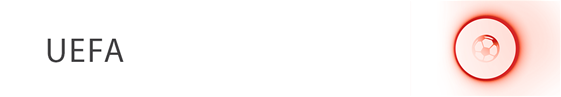
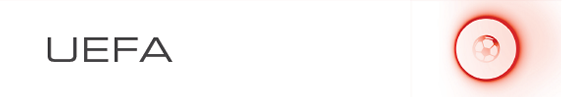
updates

diff --git a/css/app.css b/css/app.css
@@ -8,24 +8,29 @@ and open the template in the editor.
     Author     : Llewellyn
 */
 
-@import url(http://fonts.googleapis.com/css?family=Droid+Sans);
+@import url(http://fonts.googleapis.com/css?family=Michroma);
 
-body, input, select, textarea, button, .ui-btn {
-    font-family: 'Droid Sans', sans-serif;
+body, button, .ui-btn {
+    font-family: 'Michroma', Arial, Helvetica, sans-serif;
+    font-size: 12px;
 }
 
-.ui-body-a,
-.ui-body-a input,
-.ui-body-a select,
-.ui-body-a textarea,
-.ui-body-a button {
-    font-family: 'Droid Sans', sans-serif;
+input, select, textarea {
+    font-family: Arial, Helvetica, sans-serif;
 }
 
-.ui-btn-up-a,
-.ui-btn-hover-a,
-.ui-btn-down-a {
-    font-family: 'Droid Sans', sans-serif;
+.ui-body-a, .ui-body-a button {
+    font-family: 'Michroma', Arial, Helvetica, sans-serif;
+    font-size: 12px;
+}
+
+.ui-body-a input, .ui-body-a select, .ui-body-a textarea {
+    font-family: Arial, Helvetica, sans-serif;
+}
+
+.ui-btn-up-a, .ui-btn-hover-a, .ui-btn-down-a {
+    font-family: 'Michroma', Arial, Helvetica, sans-serif;
+    font-size: 12px;
 }
 
 #forgot, #login, #signup, #dashboard, #logout {
@@ -47,9 +52,14 @@ body, input, select, textarea, button, .ui-btn {
     padding: 0;
 }
 
-#header, #footer {
+#header {
     border: none;
     background-color: #fff;
+}
+
+#footer {
+    background-color: #fff;
+    border-top: 1px solid #d32627;
 }
 
 #content-body-main {
@@ -67,14 +77,33 @@ body, input, select, textarea, button, .ui-btn {
 
 #content-title > h2 {
     color: #d32627;
-    font-weight: normal;
-    font-size: 18px;
+    font-weight: bold;
+    font-size: 14px;
 }
 
 #content-head > h2 {
     color: #d32627;
+    font-weight: bold;
+    font-size: 12px;
+    text-align: left;
+    padding-left: 30px;
+}
+
+#rankingsOutput {
+    border-collapse: collapse;
+    font-size: 10px;
+}
+
+#logoutDiv {
+    text-align: right;
+    padding-right: 30px;
     font-weight: normal;
-    font-size: 18px;
+    font-size: 12px;
+    text-transform: none;
+}
+
+#logoutA {
+    text-align: center; text-decoration: none; color: #333; text-shadow: none; font-family: Arial, Helvetica, sans-serif;
 }
 
 .resposive {
@@ -92,7 +121,7 @@ body, input, select, textarea, button, .ui-btn {
     height: 40px;
 }
 
-.my-but {
+#my-but {
     background-color: #d32627;
     color: #fff;
     border: none;
@@ -103,25 +132,30 @@ body, input, select, textarea, button, .ui-btn {
     font-weight: bold;
     margin: 10px 0;
     cursor:pointer;
+    font-family: 'Michroma', Arial, Helvetica, sans-serif;
+    text-align: center;
+    text-decoration: none;
+    font-weight: bold;
 }
 
 .my-log {
     background-color: #fff;
     color: #ccc;
     border: 1px solid #ccc;
-    height: 55px;
-    line-height: 55px;
+    height: 40px;
+    line-height: 40px;
     font-weight: normal;
     padding: 5px;
     cursor: pointer;
 }
 
-.my-link {
+#my-link {
     color: black;
     text-decoration: none;
     font-weight: bold;
     text-shadow: none;
     font-size: 10px;
+    font-family: Arial, Helvetica, sans-serif;
 }
 
 .fileinput-button {
@@ -146,4 +180,30 @@ body, input, select, textarea, button, .ui-btn {
 
 .navImg {
     border: 1px solid #d32627;
+}
+
+#newsCollaps {
+    background-color: transparent; 
+    border:none;
+}
+
+#newsImg {
+    height:60px; 
+    height:60px; 
+    overflow:hidden;
+}
+
+#newsTitle {
+    height:60px; 
+    line-height: 60px; 
+    text-transform: uppercase;
+    font-size: 10px;
+    font-weight: normal;
+    text-shadow: none;
+}
+
+#newsContent {
+    background-color: transparent;
+    border-color: #D32424;
+    color: #d32424;
 }

diff --git a/js/app.js b/js/app.js
@@ -78,7 +78,6 @@ function loadRankings(uid) {
             
             $('#rankingsOutput').empty();
             $('#rankingsOutput').append(rankings); 
-            $('#rankingsOutput').listview('refresh');
         },
         error      : function() {
             console.error("error");
@@ -99,23 +98,8 @@ function loadNews() {
         data       : "tipe=getNews",
         dataType   : 'json',
         success    : function(response) {
-            for (var i in response) {
-                var newsOut = '<div data-role="collapsible" data-enhanced="true" class="ui-collapsible ui-collapsible-themed-content ui-collapsible-collapsed ui-first-child ui-last-child">'
-                                +'<div class="ui-collapsible-heading ui-collapsible-heading-collapsed">'
-                                    +'<a href="#" class="ui-collapsible-heading-toggle ui-btn ui-btn-a" style="background-color: transparent; border:none">'
-                                        +'<div class="ui-grid-a">'
-                                            +'<div class="ui-block-a" style="width:25%"><div style="height:60px; height:60px: overflow:hidden;"><img src="http://myitmanager.co.za/dsCMS/images/campaigns/'+response[i]['campaign_img']+'" style="height: 100%"></div></div>'
-                                            +'<div class="ui-block-b" style="width:75%"><div style="height:60px; line-height: 60px; text-transform: uppercase;">'+response[i]['campaign_name']+' - '+response[i]['campaign_date']+'</div></div>'
-                                        +'</div>'
-                                        +'<span class="ui-collapsible-heading-status"> click to expand contents</span>'
-                                    +'</a>'
-                                +'</div>'
-                                +'<div class="ui-collapsible-content ui-body-inherit ui-collapsible-content-collapsed" aria-hidden="true" style="background-color: transparent; border-color: #D32424">'
-                                    +'<p style="color:D32424">'+response[i]['campaign_content']+'</p>'
-                                +'</div>'
-                            +'</div>';
-                $('#newsOutput').append(newsOut); 
-            }
+            var newsOut = response["news"];
+            $('#newsOutput').append(newsOut); 
             $("#newsOutput").collapsibleset().trigger('create');
         },
         error      : function() {

diff --git a/index.html b/index.html
@@ -26,12 +26,12 @@
                     <input type="text" name="username" class="form-input" id="username" placeholder=" USERNAME" value="" data-role="none">
                     <input type="password" name="password" class="form-input" id="password" placeholder=" PASSWORD" value="" data-role="none">
                     <fieldset class="ui-grid-b">
-                        <div class="ui-block-a"><a href="forgot.html" class="my-link" style="color: #000">Forgot username?</a></div>
-                        <div class="ui-block-b" style="text-align: center"><a href="forgot.html" class="my-link" style="color: #000">Forgot password?</a></div>
-                        <div class="ui-block-c" style="text-align: right"><a href="#" class="my-link" style="color: #000">Remember me</a></div>
+                        <div class="ui-block-a"><a href="forgot.html" id="my-link">Forgot username?</a></div>
+                        <div class="ui-block-b" style="text-align: center"><a href="forgot.html" id="my-link">Forgot password?</a></div>
+                        <div class="ui-block-c" style="text-align: right"><a href="#" id="my-link">Remember me</a></div>
                     </fieldset>
-                    <input type="submit" class="my-but" value="LOG IN" name="Login" data-role="none">
-                    <a href="signup.html" class="my-but" data-role="none" style="text-align: center; text-decoration: none; color: #fff; text-shadow: none;">SIGN UP</a>
+                    <input type="submit" id="my-but" value="LOG IN" name="Login" data-role="none">
+                    <a href="signup.html" id="my-but" data-role="none">SIGN UP</a>
                 </form>
                 <div data-role="popup" id="loginError" data-theme="a" data-overlay-theme="a" class="ui-content"></div>
             </div>

diff --git a/ranking.html b/ranking.html
@@ -9,14 +9,14 @@
         <div role="main" class="ui-content" id="content">
             <div id="content-title">
                 <div class="ui-grid-a">
-                    <div class="ui-block-a" id="content-head"><h2>Rankings</h2></div>
-                    <div class="ui-block-b" style="text-align: center"><a href="logout.html" class="my-log" data-role="none" style="text-align: center; text-decoration: none; color: #333; text-shadow: none;">Logout</a></div>
+                    <div class="ui-block-a" id="content-head" style="width:65%"><h2>Rankings</h2></div>
+                    <div class="ui-block-b" id="logoutDiv" style="width:35%"><a href="logout.html" class="my-log" id="logoutA" data-role="none">Logout</a></div>
                 </div>
             </div>
-            <div id="content-body-main">
-                <ul data-role="listview" data-inset="false" id="rankingsOutput">
+            <div id="content-body-main" style="padding: 30px 0">
+                <table width="100%" id="rankingsOutput">
                     
-                </ul>
+                </table>
             </div>
         </div><!-- /content -->
         <div data-role="footer" id="footer" data-position="fixed">

diff --git a/dashboard.html b/dashboard.html
@@ -9,10 +9,9 @@
         <div role="main" class="ui-content" id="content">
             <div id="content-title">
                 <div class="ui-grid-a">
-                    <div class="ui-block-a" id="content-head"><h2>Hello <span id="userName"></span></h2></div>
-                    <div class="ui-block-b" style="text-align: center"><a href="logout.html" class="my-log" data-role="none" style="text-align: center; text-decoration: none; color: #333; text-shadow: none;">Logout</a></div>
+                    <div class="ui-block-a" id="content-head" style="width:65%"><h2>Hello <span id="userName"></span></div>
+                    <div class="ui-block-b" id="logoutDiv" style="width:35%"><a href="logout.html" class="my-log" id="logoutA" data-role="none">Logout</a></div>
                 </div>
-                
             </div>
             <div id="content-body-main">
                 <a href="rewards.html"><img src="images/myRewardsBut.png" class="resposive" style="border: 1px solid #d32627;"></a>

diff --git a/whatsnew.html b/whatsnew.html
@@ -9,8 +9,8 @@
         <div role="main" class="ui-content" id="content">
             <div id="content-title">
                 <div class="ui-grid-a">
-                    <div class="ui-block-a" id="content-head"><h2>What's new?</h2></div>
-                    <div class="ui-block-b" style="text-align: center"><a href="logout.html" class="my-log" data-role="none" style="text-align: center; text-decoration: none; color: #333; text-shadow: none;">Logout</a></div>
+                    <div class="ui-block-a" id="content-head" style="width:65%"><h2>Sprint Campaigns</h2></div>
+                    <div class="ui-block-b" id="logoutDiv" style="width:35%"><a href="logout.html" class="my-log" id="logoutA" data-role="none">Logout</a></div>
                 </div>
             </div>
             <div id="content-body-main">

diff --git a/rewards.html b/rewards.html
@@ -9,8 +9,8 @@
         <div role="main" class="ui-content" id="content">
             <div id="content-title">
                 <div class="ui-grid-a">
-                    <div class="ui-block-a" id="content-head"><h2>My Rewards</h2></div>
-                    <div class="ui-block-b" style="text-align: center"><a href="logout.html" class="my-log" data-role="none" style="text-align: center; text-decoration: none; color: #333; text-shadow: none;">Logout</a></div>
+                    <div class="ui-block-a" id="content-head" style="width:65%"><h2>My Rewards</h2></div>
+                    <div class="ui-block-b" id="logoutDiv" style="width:35%"><a href="logout.html" class="my-log" id="logoutA" data-role="none">Logout</a></div>
                 </div>
             </div>
             <div id="content-body-main">
